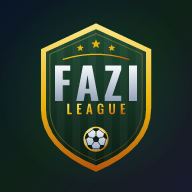
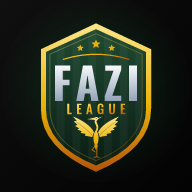
Airone araldico nello stemma e sfondo quasi nero
- Al posto del pallone, l'airone simbolo di Fazi: di fronte, ali aperte,
  su una zampa sola, testa di profilo (rigenerate tutte le icone).
- Sfondo dell'app quasi nero (#080808) con leggero alone verde in alto;
  finestre, menu e barra admin in grigio neutro invece che blu; stesso
  colore per barra di stato, schermata di avvio e icone.

Claude-Session: https://claude.ai/code/session_01Ez5Lvp3bhEw7BS5JCY48Au

diff --git a/src/App.jsx b/src/App.jsx
@@ -1544,7 +1544,7 @@ export default function App() {
                 const mine = norm(p.nickname) === myName;
                 return (
                   <div key={p.key}
-                    style={{ width: 190, borderRadius: 14, overflow: "hidden", border: `2px solid ${tier.color}`, background: "#0d1117", flexShrink: 0, position: "relative", boxShadow: "0 8px 24px rgba(0,0,0,0.4)", cursor: adminMode || mine ? "pointer" : "default" }}
+                    style={{ width: 190, borderRadius: 14, overflow: "hidden", border: `2px solid ${tier.color}`, background: "#0c0c0c", flexShrink: 0, position: "relative", boxShadow: "0 8px 24px rgba(0,0,0,0.4)", cursor: adminMode || mine ? "pointer" : "default" }}
                     onClick={() => (adminMode ? startEditingPlayerStats(p.nickname) : mine && openProfileEditor(p.nickname))}>
                     {adminMode && (
                       <button onClick={(e) => { e.stopPropagation(); handleDeletePlayer(p.key, p.nickname); }} style={S.cardDelete}>✕</button>
@@ -2050,11 +2050,11 @@ export default function App() {
 }
 
 const S = {
-  container: { position: "relative", minHeight: "100vh", background: "linear-gradient(145deg, #0a1628 0%, #0f2218 40%, #1a1a2e 100%)", fontFamily: "'Source Sans 3', sans-serif", color: "#e2e8f0", overflow: "hidden", paddingBottom: 40 },
-  bgPattern: { position: "fixed", inset: 0, backgroundImage: "radial-gradient(circle at 20% 50%, rgba(22,163,74,0.08) 0%, transparent 50%), radial-gradient(circle at 80% 20%, rgba(234,179,8,0.05) 0%, transparent 50%)", pointerEvents: "none", zIndex: 0 },
+  container: { position: "relative", minHeight: "100vh", background: "#080808", fontFamily: "'Source Sans 3', sans-serif", color: "#e2e8f0", overflow: "hidden", paddingBottom: 40 },
+  bgPattern: { position: "fixed", inset: 0, backgroundImage: "radial-gradient(ellipse 70% 45% at 50% 0%, rgba(22,163,74,0.13) 0%, transparent 70%), radial-gradient(circle at 85% 30%, rgba(234,179,8,0.04) 0%, transparent 45%)", pointerEvents: "none", zIndex: 0 },
   header: { position: "relative", zIndex: 1, textAlign: "center", padding: "28px 20px 14px", display: "flex", flexDirection: "column", alignItems: "center" },
   toast: { position: "fixed", top: 20, left: "50%", transform: "translateX(-50%)", padding: "12px 28px", borderRadius: 12, color: "white", fontWeight: 600, fontSize: 15, zIndex: 1000, boxShadow: "0 8px 32px rgba(0,0,0,0.4)", maxWidth: "90vw", textAlign: "center" },
-  adminBar: { position: "sticky", top: 0, zIndex: 400, display: "flex", justifyContent: "space-between", alignItems: "center", gap: 8, padding: "8px 12px", background: "rgba(26,26,46,0.96)", borderBottom: "1px solid rgba(234,179,8,0.3)", backdropFilter: "blur(6px)" },
+  adminBar: { position: "sticky", top: 0, zIndex: 400, display: "flex", justifyContent: "space-between", alignItems: "center", gap: 8, padding: "8px 12px", background: "rgba(14,14,14,0.96)", borderBottom: "1px solid rgba(234,179,8,0.3)", backdropFilter: "blur(6px)" },
   adminBarBtn: { padding: "6px 10px", fontSize: 12, fontFamily: "'Oswald', sans-serif", letterSpacing: 1, borderRadius: 8, border: "1px solid rgba(255,255,255,0.12)", background: "rgba(255,255,255,0.05)", color: "#e2e8f0", cursor: "pointer" },
   subtitle: { fontFamily: "'Oswald', sans-serif", fontSize: 13, letterSpacing: 4, color: "#64748b", marginTop: 12, textTransform: "uppercase" },
   tabBar: { position: "relative", zIndex: 1, display: "grid", gridTemplateColumns: "repeat(5, 1fr)", gap: 4, maxWidth: 560, margin: "0 auto 22px", padding: 4, width: "calc(100% - 24px)", boxSizing: "border-box", background: "rgba(255,255,255,0.03)", border: "1px solid rgba(255,255,255,0.06)", borderRadius: 16 },
@@ -2073,7 +2073,7 @@ const S = {
   formInput: { width: "100%", padding: "11px 14px", fontSize: 16, fontFamily: "'Source Sans 3', sans-serif", fontWeight: 600, background: "rgba(255,255,255,0.06)", border: "1px solid rgba(255,255,255,0.12)", borderRadius: 10, color: "#e2e8f0", outline: "none", boxSizing: "border-box", marginBottom: 12 },
   fieldLabel: { display: "block", fontSize: 11, color: "#94a3b8", marginBottom: 4, fontFamily: "'Oswald', sans-serif", letterSpacing: 1 },
   inputGlow: { position: "absolute", bottom: -2, left: "10%", right: "10%", height: 2, background: "linear-gradient(90deg, transparent, #16a34a, transparent)", borderRadius: 2 },
-  suggestBox: { position: "absolute", top: "100%", left: 0, right: 0, marginTop: 4, background: "#1a1a2e", border: "1px solid rgba(22,163,74,0.4)", borderRadius: 12, overflow: "hidden", zIndex: 100, boxShadow: "0 8px 24px rgba(0,0,0,0.5)" },
+  suggestBox: { position: "absolute", top: "100%", left: 0, right: 0, marginTop: 4, background: "#161616", border: "1px solid rgba(22,163,74,0.4)", borderRadius: 12, overflow: "hidden", zIndex: 100, boxShadow: "0 8px 24px rgba(0,0,0,0.5)" },
   suggestItem: { padding: "12px 18px", cursor: "pointer", fontSize: 15, fontWeight: 600, color: "#e2e8f0", display: "flex", alignItems: "center", gap: 10 },
   daysGrid: { display: "grid", gridTemplateColumns: "repeat(auto-fit, minmax(260px, 1fr))", gap: 16 },
   dayCard: { background: "rgba(255,255,255,0.04)", borderRadius: 16, border: "1px solid rgba(255,255,255,0.06)", overflow: "hidden" },
@@ -2114,7 +2114,7 @@ const S = {
   actionBtn: { padding: "10px 16px", fontFamily: "'Oswald', sans-serif", fontSize: 14, letterSpacing: 1.5, border: "1px solid rgba(255,255,255,0.1)", borderRadius: 10, background: "rgba(255,255,255,0.05)", color: "#e2e8f0", cursor: "pointer" },
   actionPrimary: { background: "linear-gradient(135deg, #16a34a, #15803d)", border: "none", color: "white" },
   overlay: { position: "fixed", inset: 0, zIndex: 500, background: "rgba(0,0,0,0.7)", display: "flex", alignItems: "flex-start", justifyContent: "center", padding: "40px 16px", overflowY: "auto" },
-  modal: { background: "#1a1a2e", borderRadius: 20, border: "1px solid rgba(255,255,255,0.08)", padding: 24, maxWidth: 600, width: "100%" },
+  modal: { background: "#141414", borderRadius: 20, border: "1px solid rgba(255,255,255,0.08)", padding: 24, maxWidth: 600, width: "100%" },
   modalTitle: { fontFamily: "'Oswald', sans-serif", fontSize: 20, letterSpacing: 2, textAlign: "center", margin: "0 0 20px" },
   scoreRow: { display: "flex", alignItems: "center", justifyContent: "center", gap: 16, marginBottom: 24 },
   scoreTeam: { display: "flex", flexDirection: "column", alignItems: "center", gap: 8 },
@@ -2123,7 +2123,7 @@ const S = {
   scoreBtn: { width: 36, height: 36, borderRadius: "50%", border: "1px solid rgba(255,255,255,0.15)", background: "rgba(255,255,255,0.06)", color: "#e2e8f0", fontSize: 20, cursor: "pointer", display: "flex", alignItems: "center", justifyContent: "center", fontFamily: "'Oswald', sans-serif" },
   scoreNum: { fontFamily: "'Oswald', sans-serif", fontSize: 36, fontWeight: 700, minWidth: 40, textAlign: "center" },
   mvpLabel: { display: "block", fontFamily: "'Oswald', sans-serif", fontSize: 14, letterSpacing: 1.5, color: "#eab308", marginBottom: 8 },
-  mvpSelect: { width: "100%", padding: "12px", background: "#1a202c", border: "2px solid #eab308", borderRadius: 10, color: "#e2e8f0", fontFamily: "'Oswald', sans-serif", fontSize: 15, cursor: "pointer" },
+  mvpSelect: { width: "100%", padding: "12px", background: "#101010", border: "2px solid #eab308", borderRadius: 10, color: "#e2e8f0", fontFamily: "'Oswald', sans-serif", fontSize: 15, cursor: "pointer" },
   formHeader: { display: "flex", padding: "8px 12px", fontFamily: "'Oswald', sans-serif", fontSize: 11, letterSpacing: 1.5, color: "#64748b", textTransform: "uppercase", borderBottom: "1px solid rgba(255,255,255,0.06)" },
   formRow: { display: "flex", alignItems: "center", padding: "8px 12px", borderBottom: "1px solid rgba(255,255,255,0.03)" },
   sideChip: { width: 34, height: 30, borderRadius: 8, border: "1px solid rgba(255,255,255,0.15)", background: "rgba(255,255,255,0.06)", color: "#e2e8f0", fontFamily: "'Oswald', sans-serif", fontSize: 14, fontWeight: 700, cursor: "pointer", flexShrink: 0 },

diff --git a/index.html b/index.html
@@ -5,7 +5,7 @@
     <meta name="viewport" content="width=device-width, initial-scale=1.0" />
     <title>Fazi League</title>
     <meta name="description" content="Iscrizioni, squadre e statistiche del calcetto" />
-    <meta name="theme-color" content="#0a1628" />
+    <meta name="theme-color" content="#080808" />
     <link rel="manifest" href="/manifest.webmanifest" />
     <link rel="icon" href="/favicon.svg" type="image/svg+xml" />
     <link rel="icon" href="/favicon-32.png" type="image/png" sizes="32x32" />
@@ -21,8 +21,8 @@
     <style>
       /* Schermata di avvio: compare subito, prima che l'app sia scaricata.
          L'app usa la stessa classe mentre aspetta i dati, così non c'è nessuno stacco. */
-      html, body { background: #0a1628; }
-      .fl-splash { display: flex; flex-direction: column; align-items: center; justify-content: center; gap: 18px; min-height: 100vh; min-height: 100dvh; background: radial-gradient(circle at 50% 42%, rgba(22,163,74,0.14), transparent 60%), #0a1628; }
+      html, body { background: #080808; }
+      .fl-splash { display: flex; flex-direction: column; align-items: center; justify-content: center; gap: 18px; min-height: 100vh; min-height: 100dvh; background: radial-gradient(circle at 50% 42%, rgba(22,163,74,0.14), transparent 60%), #080808; }
       .fl-splash img { width: 129px; height: 150px; animation: fl-pulse 1.8s ease-in-out infinite; }
       .fl-splash p { margin: 0; color: #94a3b8; font: 500 14px/1 'Oswald', 'Arial Narrow', sans-serif; letter-spacing: 4px; text-transform: uppercase; }
       @keyframes fl-pulse { 0%, 100% { transform: scale(1); filter: drop-shadow(0 0 0 rgba(234,179,8,0)); } 50% { transform: scale(1.04); filter: drop-shadow(0 0 18px rgba(234,179,8,0.35)); } }

diff --git a/src/index.css b/src/index.css
@@ -6,7 +6,7 @@
 
 body {
   font-family: 'Source Sans 3', sans-serif;
-  background: #0a1628;
+  background: #080808;
   color: #e2e8f0;
   -webkit-font-smoothing: antialiased;
 }
